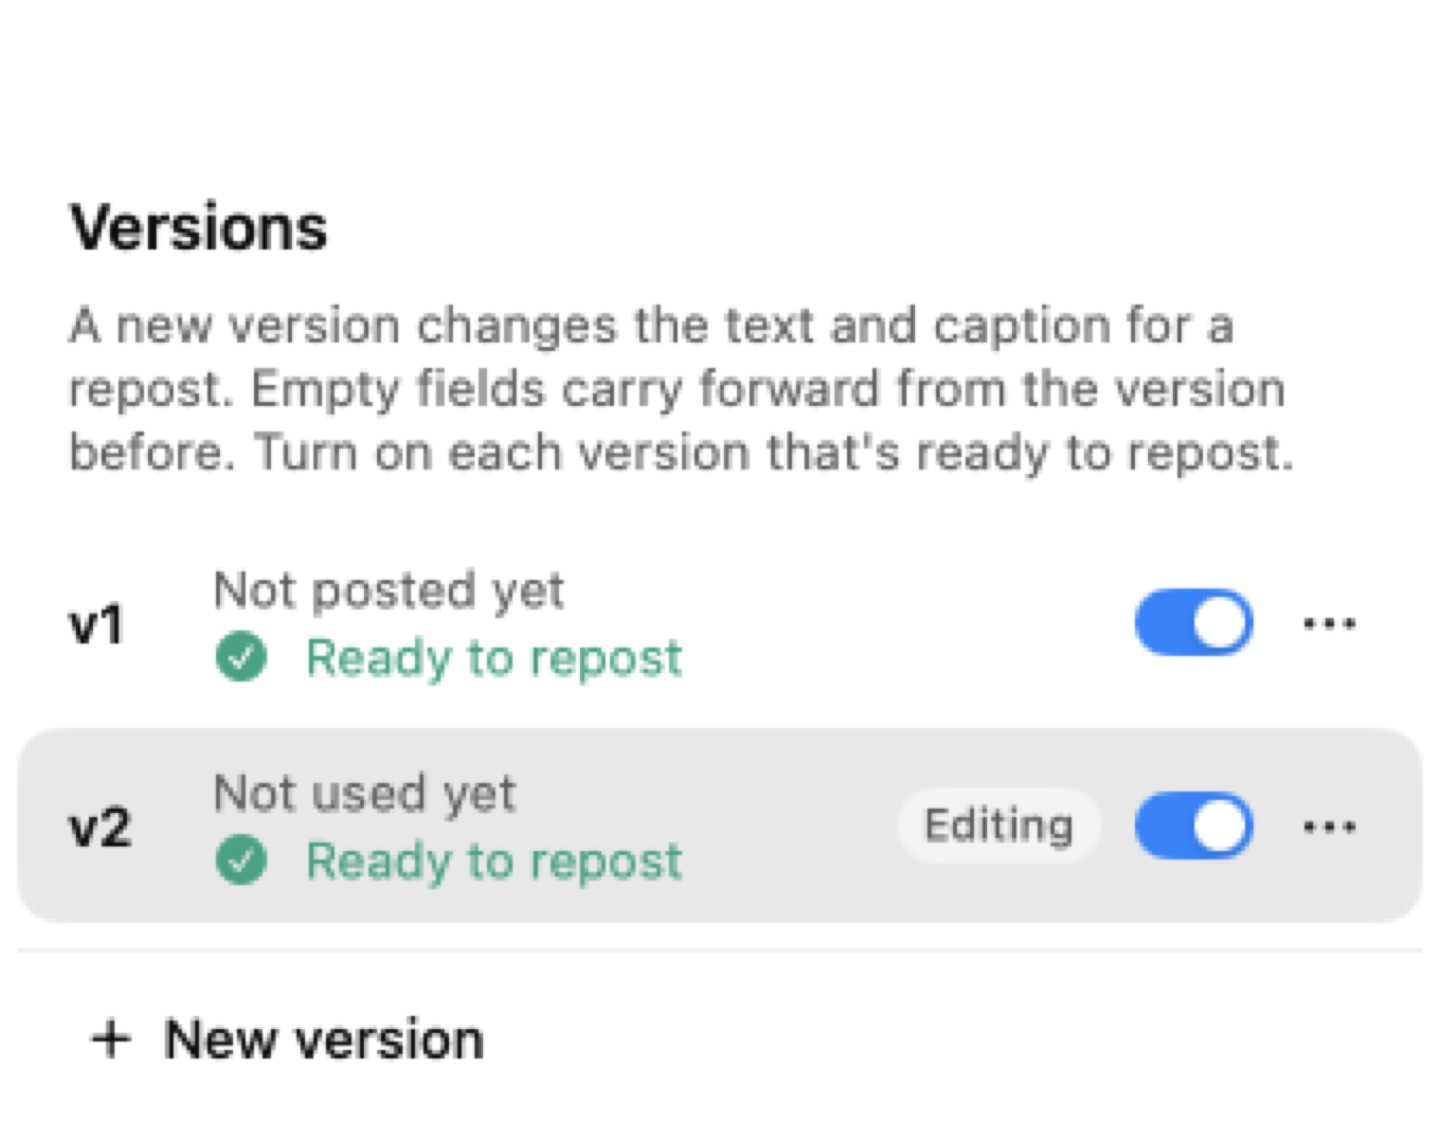
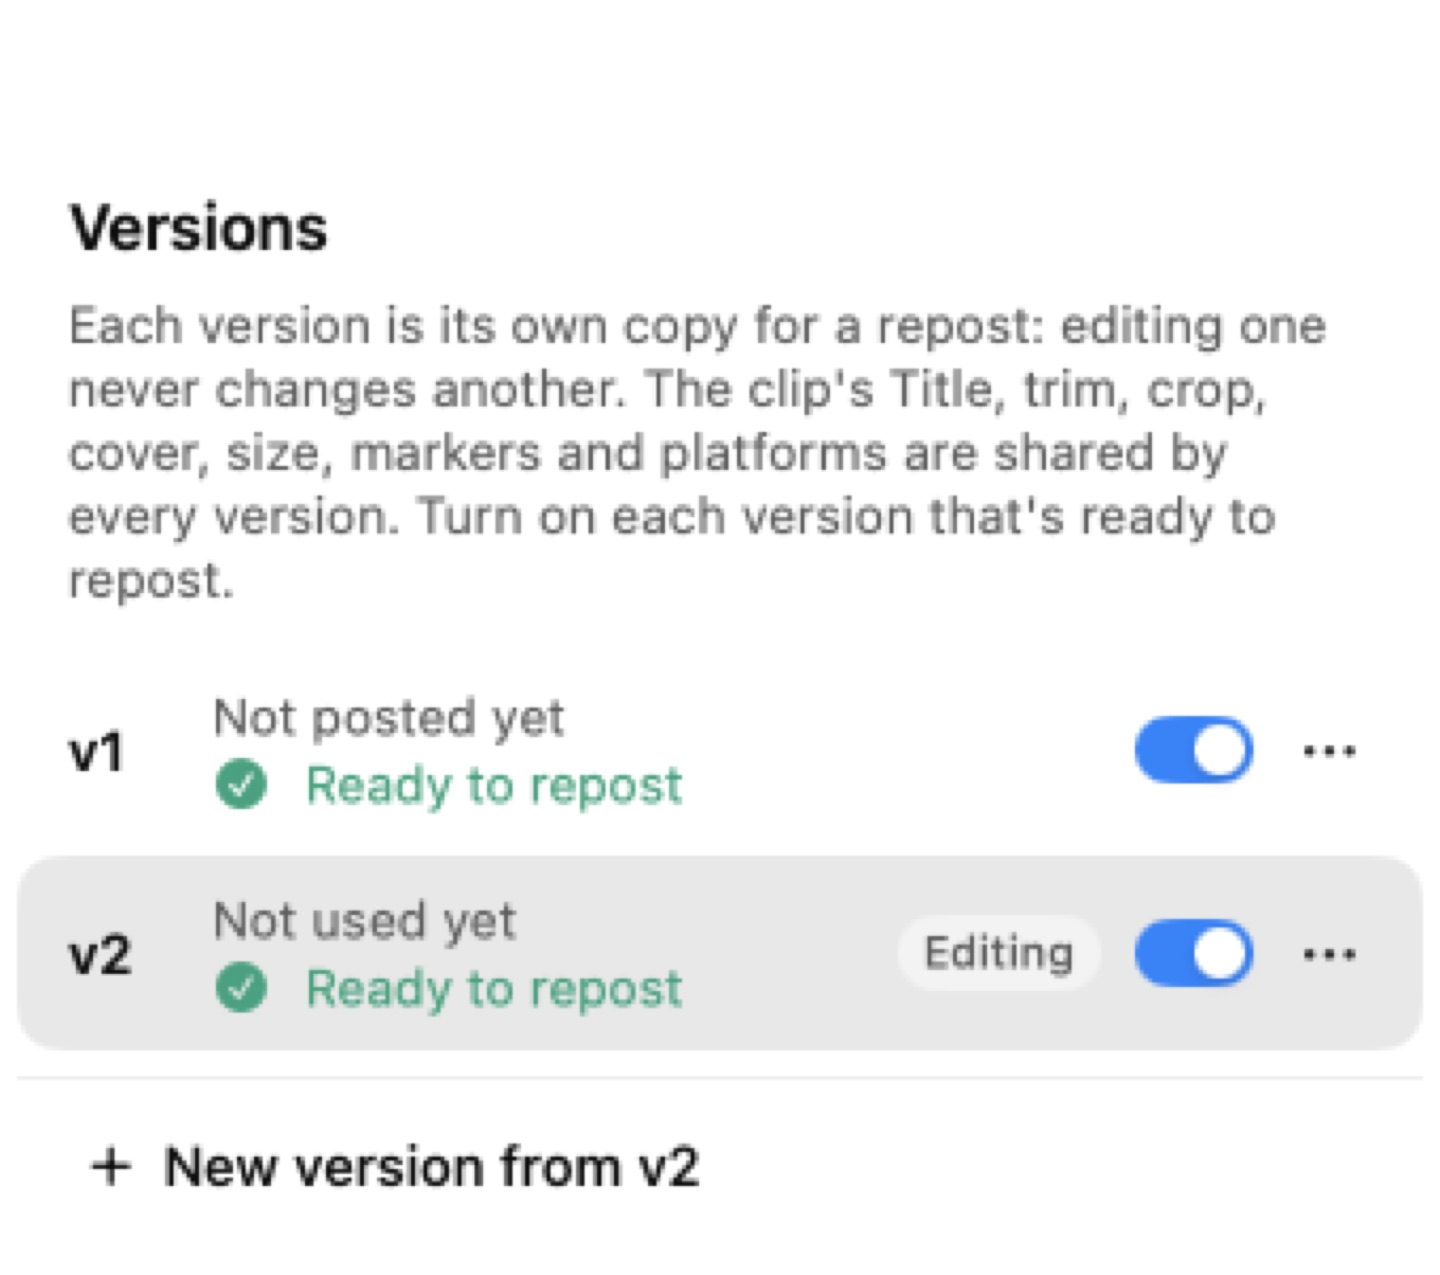
README: every version is its own copy (still and GIF from the hidden checks)

diff --git a/Sources/DJQueueApp/Editor/TextLayersScript.swift b/Sources/DJQueueApp/Editor/TextLayersScript.swift
@@ -836,6 +836,7 @@ enum TextLayersScript {
       e.newVersion(copying: 1)
       await wait(600)
       let copy = e.versionNo
+      await shot("version-copy-of-v1")
       check("a copy of an older version carries its texts", copy == fresh + 1 && words(raw(id, version: copy)?.moreText) == words(saved(id)?.moreText))
 
       // Round 27, the other way: editing v1 after copying it never reaches the copy.
@@ -850,6 +851,12 @@ enum TextLayersScript {
         e.flushAndWait()
         check("editing v1 changes v1", raw(id)?.moreText?.last?.size == (l.size == 88 ? 87 : 88))
         check("and never the copy made from it", words(raw(id, version: copy)?.moreText) == copyBefore)
+        await shot("v1-edited")
+        e.selectVersion(copy)
+        await wait(600)
+        await shot("copy-unchanged")
+        e.selectVersion(1)
+        await wait(500)
         e.undo()
         await wait(600)
       }

diff --git a/README.md b/README.md
@@ -30,6 +30,12 @@ Recorded off screen from the app's own click-through checks: each frame is a rea
 | **Every version in one list** | **Filters › Reposts: Ready to repost** |
 | ![Version list with Ready to repost switches](docs/media/repost-versions.jpg) | ![Library filtered to clips with a version ready to repost](docs/media/repost-filter.jpg) |
 
+**Every version is its own copy (v0.20.0).** A new version is a complete copy of the one it came from (every text with its timing, so a text that runs the whole clip still does, plus the caption) and then stands on its own: editing v1 never changes v2, and the other way round. A copy never carries *Ready to repost*. The clip's Title, trim, crop, cover, size, markers and platforms stay shared by every version. Existing versions were separated without changing anything they show.
+
+| A copy of v1 as v4, then v1 edited: v4 keeps what it had | The version list says what's shared |
+|---|---|
+| ![v1 copied as v4; editing v1 leaves v4 as it was](docs/media/version-copies.gif) | ![Version list: each version is its own copy](docs/media/repost-versions.jpg) |
+
 **Photo posts and set-time posts (v0.15.0).** A photo, or a carousel of several, goes through the same life as a clip: add it, edit it (shape, a crop per photo, texts on the photos you pick, caption, hashtag groups), send it to the Queue with no score, and track it on the Calendar. YouTube Shorts is skipped because it takes video only, and a carousel longer than a platform allows sends its first photos there and says so. Any Queue item, photo or clip, can also go out at an exact day and minute, outside the regular schedule, without moving anything else.
 
 | Add photos — pick or drop them, one carousel or a post per photo | The photo editor — crop each photo, put a text on photos 2–3, reorder, platform notes |
@@ -147,7 +153,7 @@ flowchart LR
 
 - **One process, three roles.** A LaunchAgent starts the app in agent mode at login; the same process hosts the engine loop, the menu-bar item and (on demand) the main window. macOS only delivers notifications from an app bundle, which drove this design. A file lock guarantees one engine per database; the CLI shares the same WAL-mode SQLite file.
 - **Core library (`DJQCore`)** holds everything testable: models, store, intake, validation, captions, planner, engine, renderer, Doctor. The app and the CLI are thin shells over it.
-- **Data model.** Videos (identity from the manifest; app-owned fields like score are never overwritten by intake), edits, text versions with carry-forward, weekly plans, and platform posts with an append-only history. A fix or repost creates a new attempt; history is never rewritten.
+- **Data model.** Videos (identity from the manifest; app-owned fields like score are never overwritten by intake), edits, text versions (each one its own copy since v0.20.0), weekly plans, and platform posts with an append-only history. A fix or repost creates a new attempt; history is never rewritten.
 
 ## Engineering highlights
 
